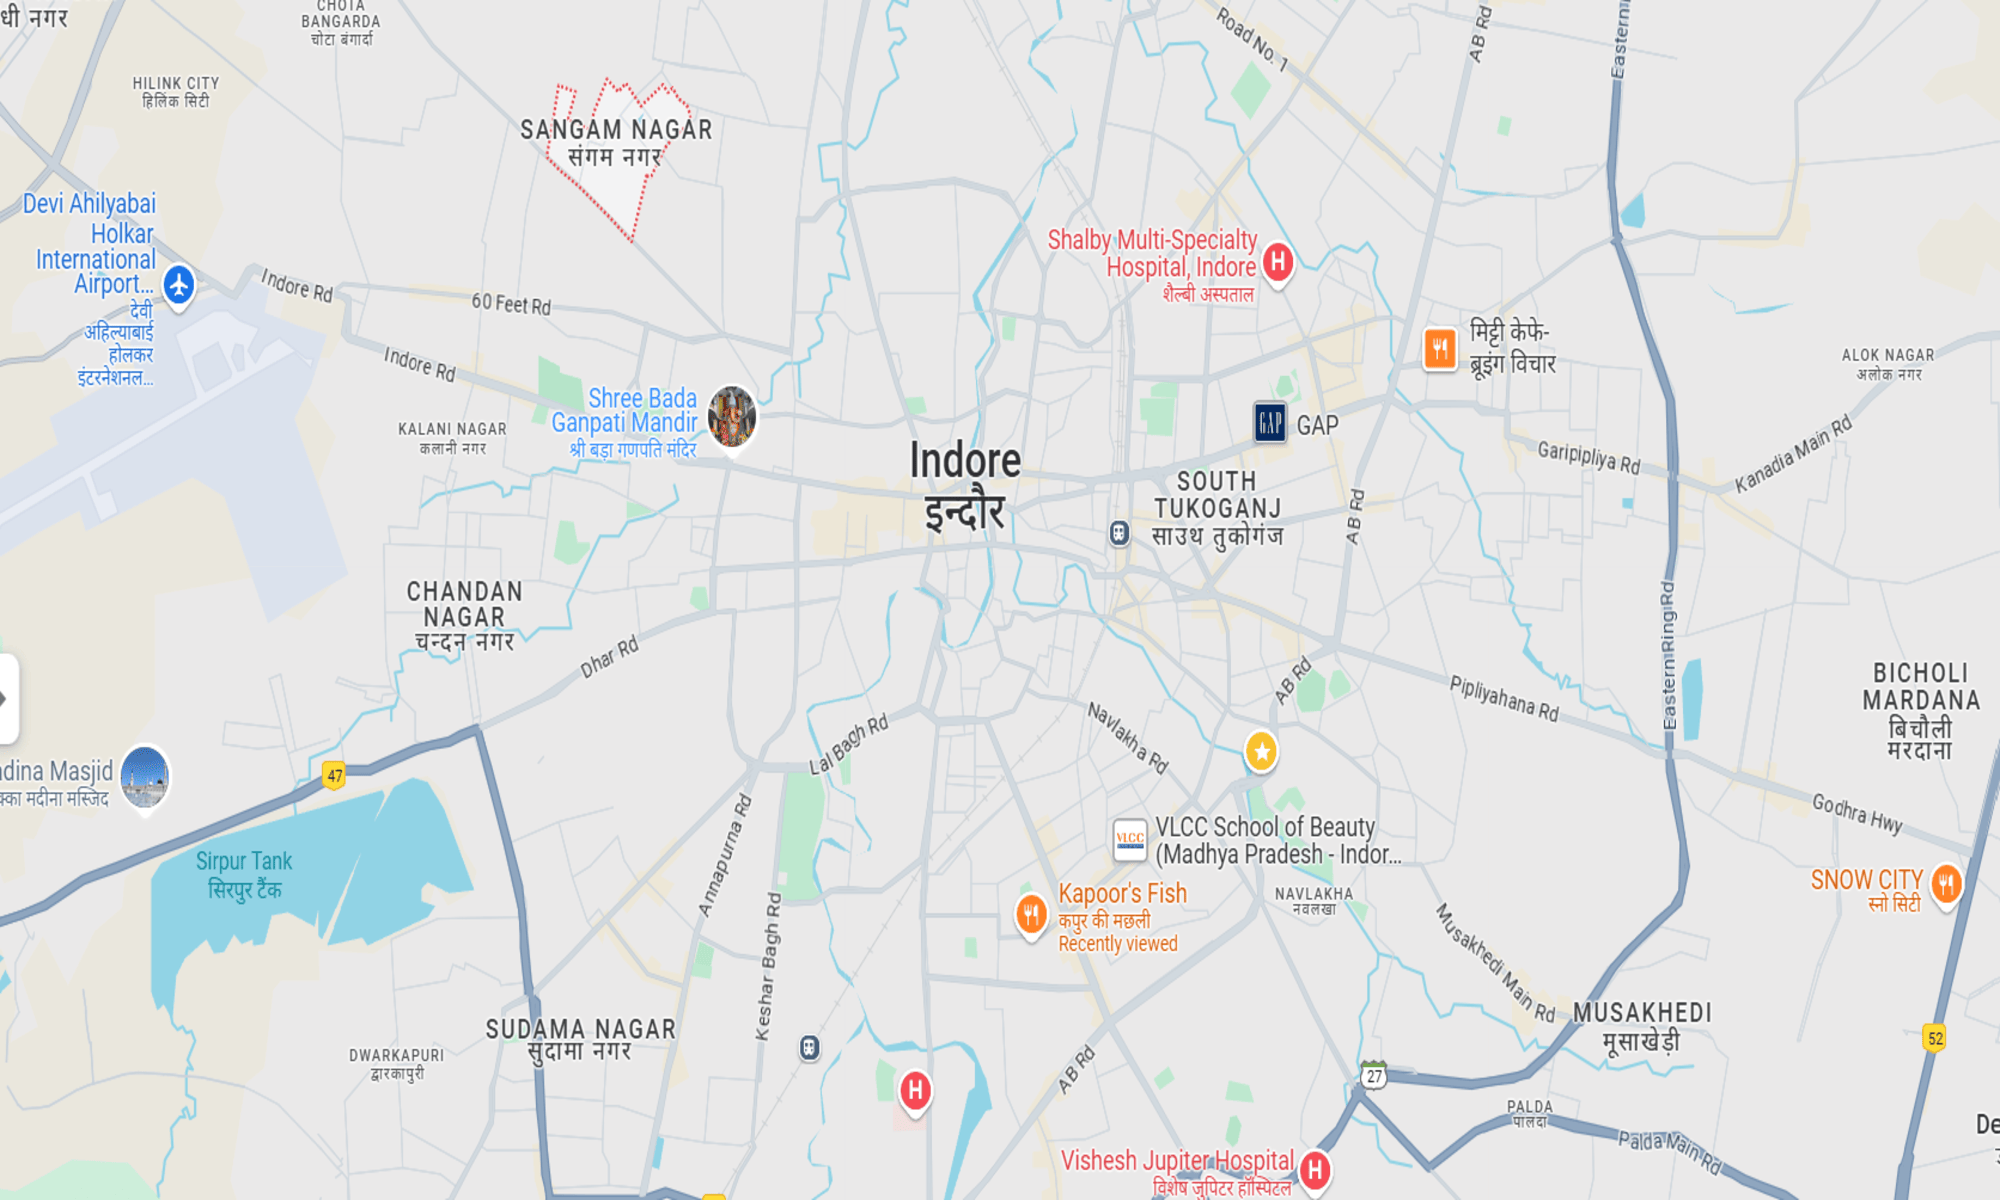
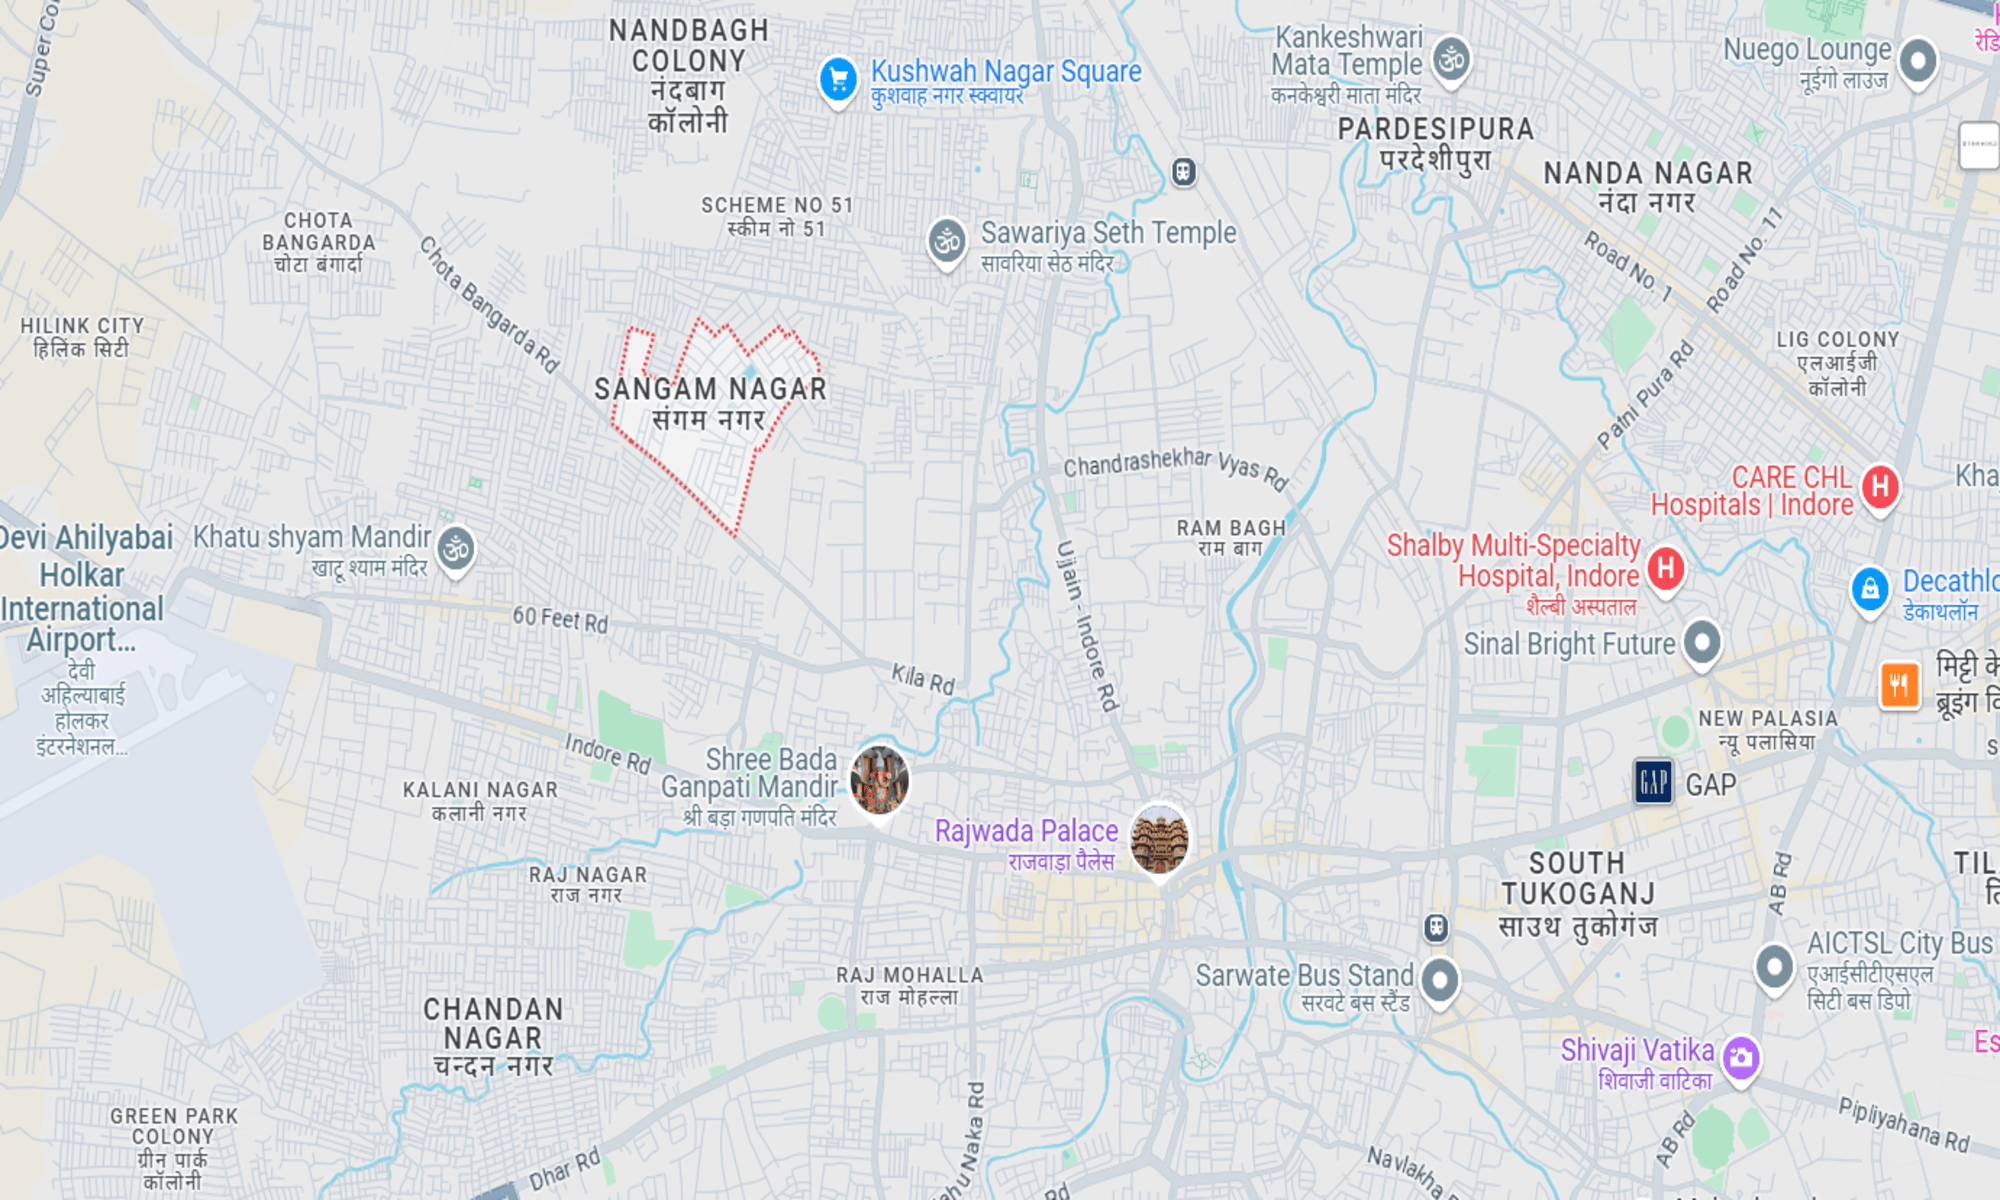
fix issue#36
1. Updated the smaller map screenshot with zoomed in image.

2. Updated the implementation of <source> tag which was not within <picture> tag causing map-large to never show up.

diff --git a/src/components/contactUs/location/Location.jsx b/src/components/contactUs/location/Location.jsx
@@ -38,13 +38,16 @@ export const Location = () => {
           <CircularProgress color="inherit" />
         )} */}
         <a
-          href="https://maps.app.goo.gl/RSyoLcCh5SjBhYBb7"
-          target="_blank"
-          rel="noreferrer"
+        href="https://maps.app.goo.gl/RSyoLcCh5SjBhYBb7"
+        target="_blank"
+        rel="noreferrer"
         >
-          <source srcSet={mapLarge} media="(min-width: 53rem)" />
-          <img width="100%" src={mapSmall} alt="" />
-        </a>
+          <picture>
+            <source srcSet={mapLarge} media="(min-width: 53rem)" />
+            <img width="100%" src={mapSmall} alt="Office Location Map" />
+            </picture>
+            </a>
+
       </MapWrapper>
       <CommonText style={{ fontWeight: "bold" }}>AOV Studios</CommonText>
       <CommonText>Sangam Nagar, Indore (452006)</CommonText>
